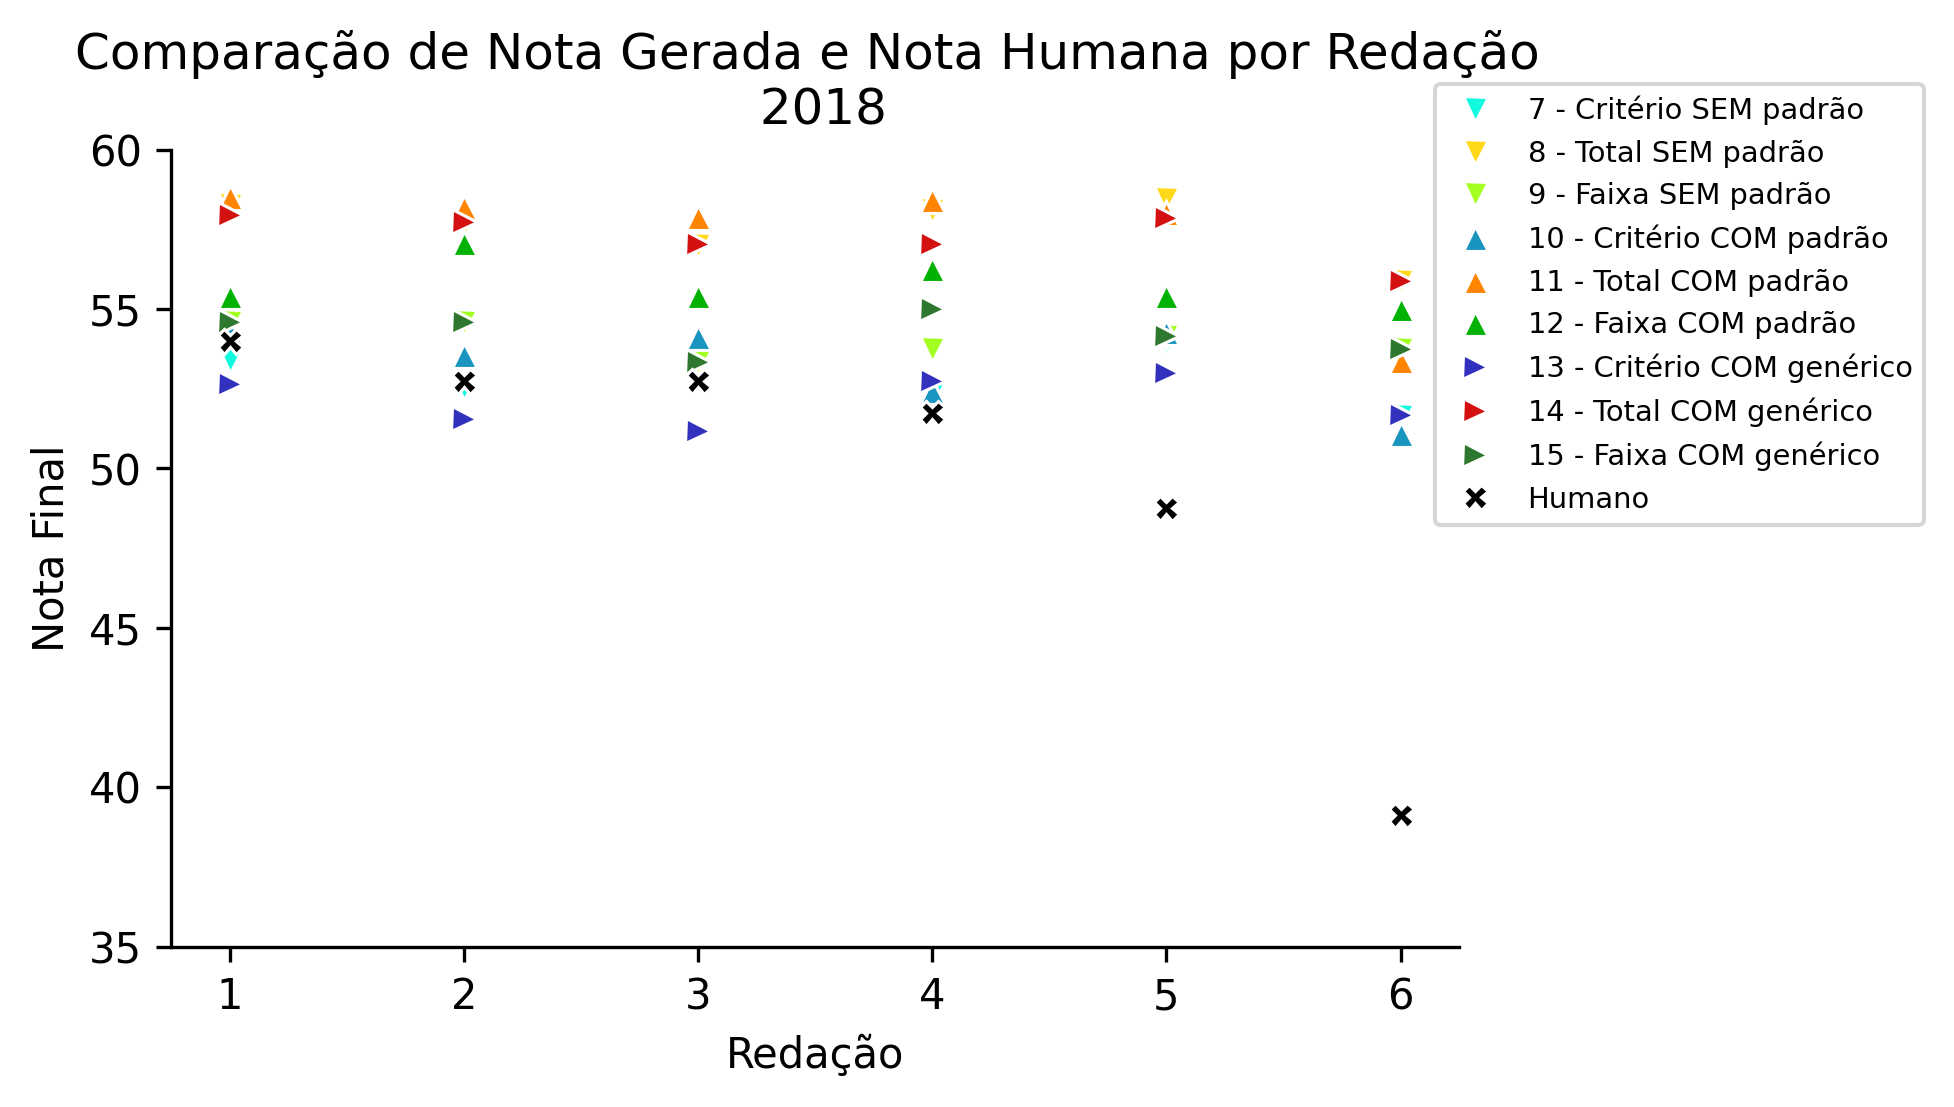
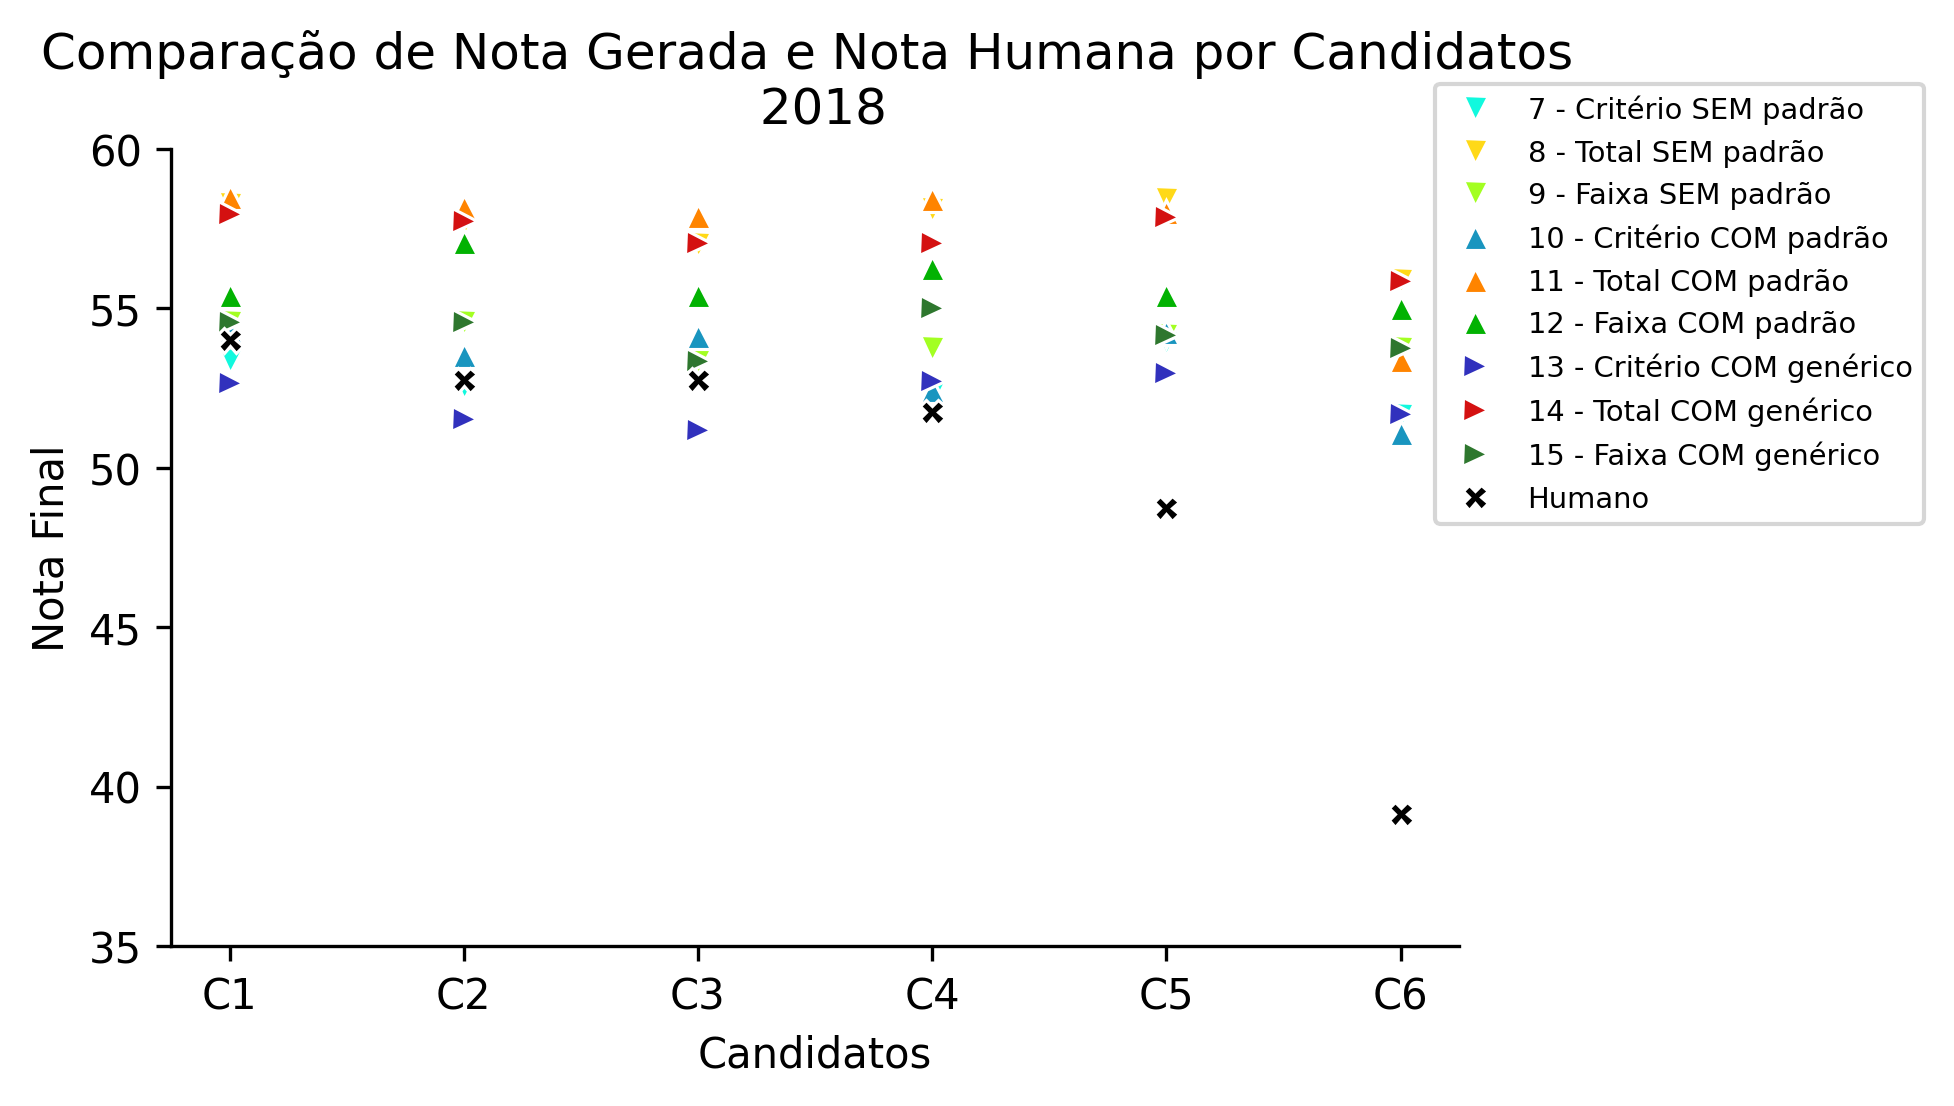
Renaming x axis and values on comparacao_notas

diff --git a/scripts/plot.py b/scripts/plot.py
@@ -130,28 +130,30 @@ def plot_eval_human_scores(df, output_path, year, *, temp=None, prompt=None):
     df = pd.concat([df, df_human], sort=False)
 
     df = df.groupby(["redacao", "prompt"], as_index=False, sort=False).mean(numeric_only=True)
+    df = df.rename(columns={"redacao":"candidatos"})
 
-    title = f"Comparação de Nota Gerada e Nota Humana por Redação \n {year}"
+    title = f"Comparação de Nota Gerada e Nota Humana por Candidatos \n {year}"
+
+    df[["candidatos"]] = "C" + df[["candidatos"]]
+    print(df[["candidatos"]])
 
     qtd_prompts = len(df["prompt"].unique().tolist())
 
     if temp == None and prompt == None:
         sns.lineplot(
             data=df,
-            x="redacao",
+            x="candidatos",
             y="nota_final",
             hue="prompt",
             style="prompt",
             dashes=False if qtd_prompts == 10 else True,
-            #err_style="band",
             linestyle='',
             markers=["v", "v", "v", "^", "^", "^", ">", ">", ">", "X"] if qtd_prompts == 10 else ["v", "^", ">", "X"],
             palette=["#11F9DE", "#FFD918", "#A3FF22", "#1995BF", "#FF8400FF", "#02B202", "#3131BD", "#D41111", "#2E772E", "#000000"] if qtd_prompts == 10 else ["#11F9DE", "#FFD918", "#A3FF22", "#000000"],
-            #ax=axes[0],
             sort=False
         )
         axes.set_title(title)
-        axes.set_xlabel("Redação")
+        axes.set_xlabel("Candidatos")
         axes.set_ylabel("Nota Final")
         if year == "2024":
             axes.set_ylim(35, 70)
@@ -163,7 +165,7 @@ def plot_eval_human_scores(df, output_path, year, *, temp=None, prompt=None):
     elif temp != None:
         sns.lineplot(
             data=df,
-            x="redacao",
+            x="candidatos",
             y="nota_final",
             hue="prompt",
             marker="o",
@@ -171,7 +173,7 @@ def plot_eval_human_scores(df, output_path, year, *, temp=None, prompt=None):
             ax=axes,
             sort=False
         )
-        axes.set_xlabel("Redação")
+        axes.set_xlabel("Candidatos")
         axes.set_ylabel("Nota Final")
         axes.set_ylim(35, 60)
         axes.legend(bbox_to_anchor=(0.97, 1.1), loc="upper left")
@@ -180,7 +182,7 @@ def plot_eval_human_scores(df, output_path, year, *, temp=None, prompt=None):
     elif prompt != None:
         sns.lineplot(
             data=df,
-            x="redacao",
+            x="candidatos",
             y="nota_final",
             hue="temp",
             marker="o",
@@ -188,7 +190,7 @@ def plot_eval_human_scores(df, output_path, year, *, temp=None, prompt=None):
             ax=axes,
             sort=False
         )
-        axes.set_xlabel("Redação")
+        axes.set_xlabel("Candidatos")
         axes.set_ylabel("Nota Final")
         axes.set_ylim(35, 60)
         axes.legend(bbox_to_anchor=(0.97, 1.1), loc="upper left")
